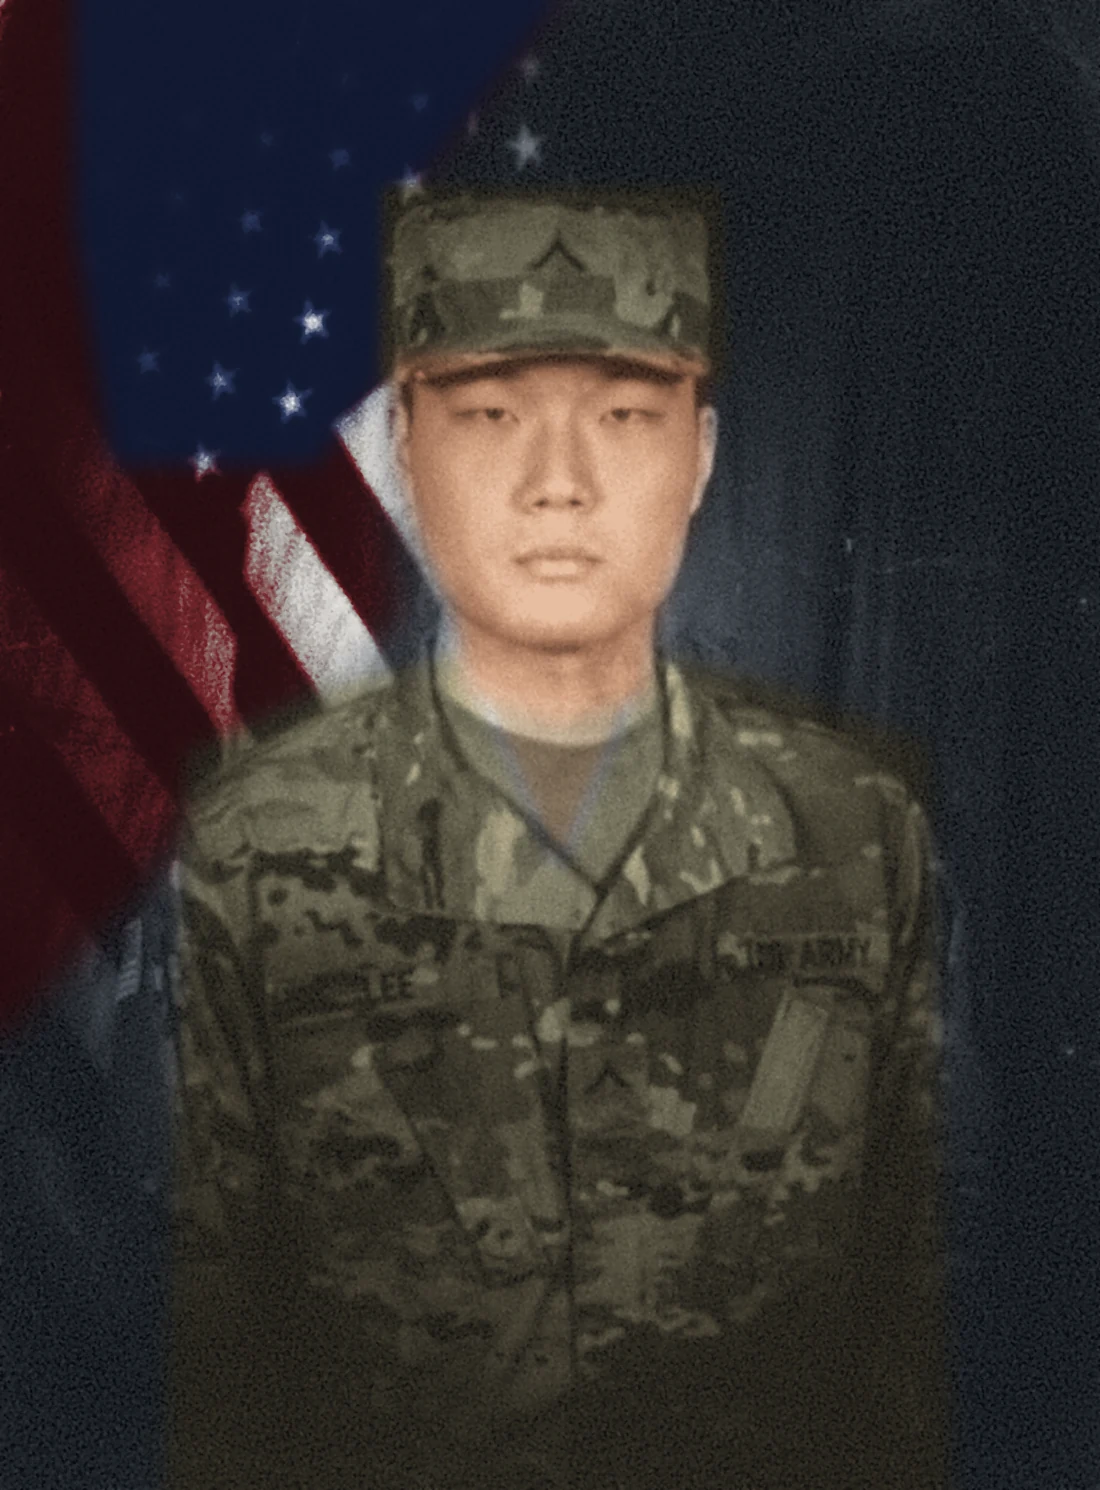
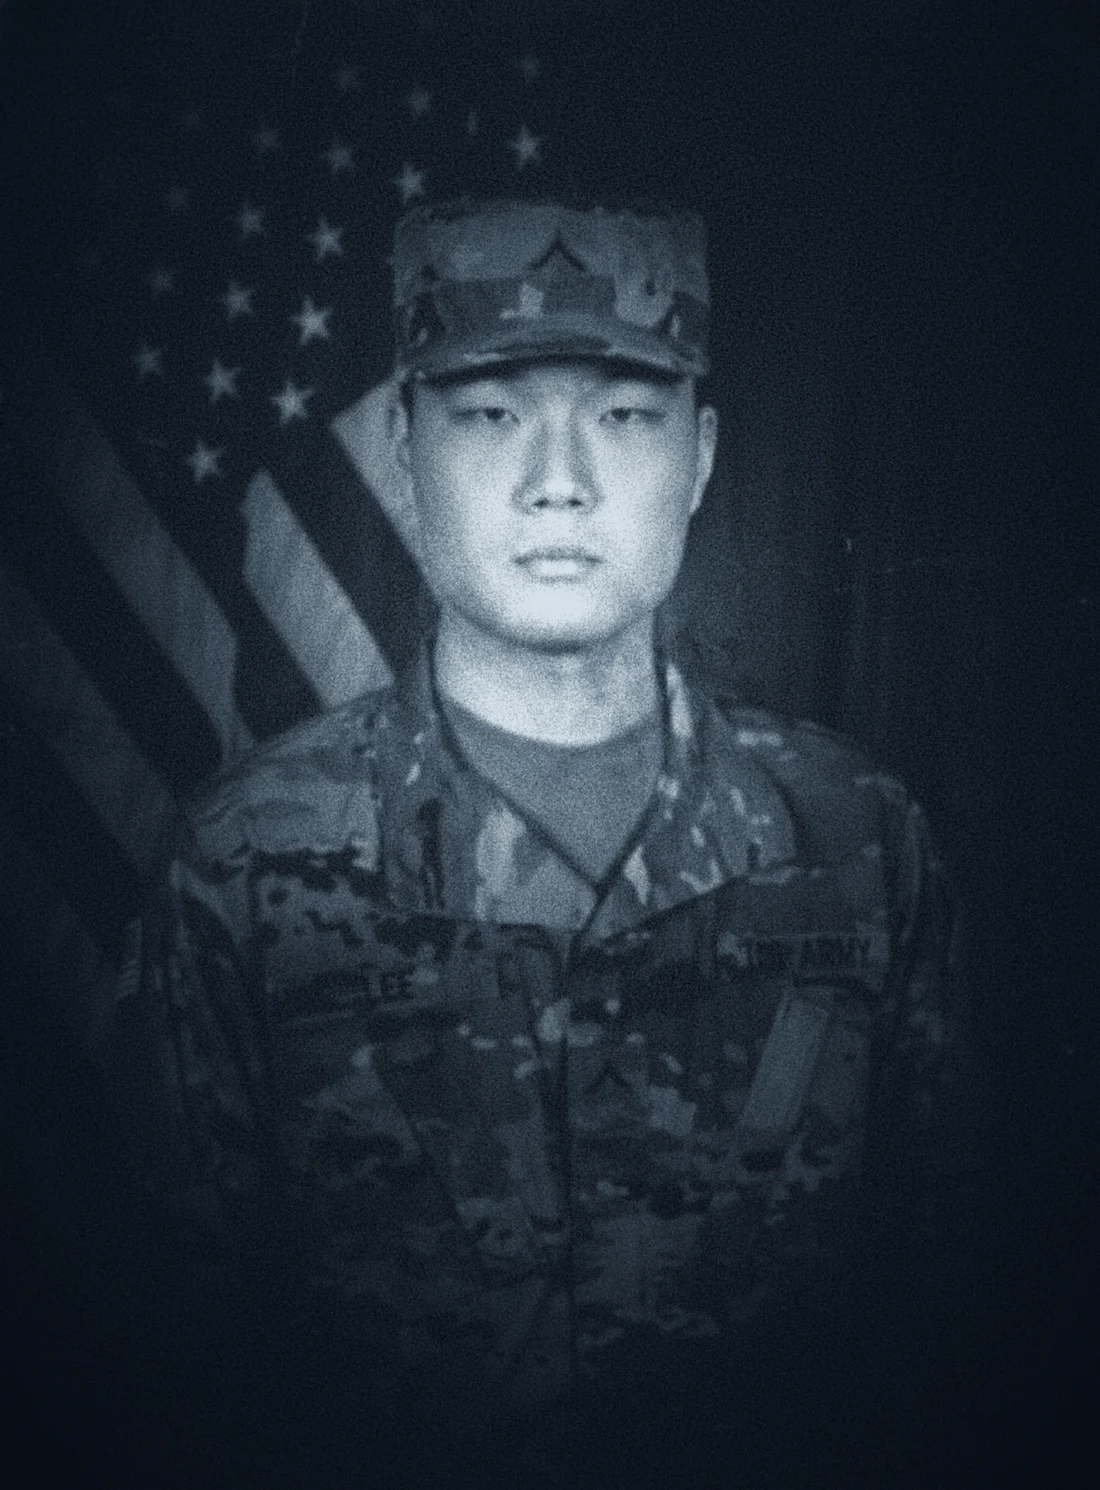
About: return the PV2 portrait to the silver-blue duotone
Claude-Session: https://claude.ai/code/session_01B4wxCsy1ETWEjo4xRhURWq

diff --git a/tools/make_portrait.py b/tools/make_portrait.py
@@ -1,76 +1,41 @@
-"""Tint the black-and-white service portrait (PV2) for the About page.
+"""Tone the service portrait (PV2) for the About page.
 
-The scan is a warm, grainy black-and-white print. This lifts it to a clean, natural photo:
-grain softened, levels opened up, then each area is hand-tinted from its own brightness the
-way old photographs were coloured by hand (skin, Army camouflage, the flag's stripes and
-stars, a dark backdrop). The masks below were placed by eye on the cropped photo.
+Crops to the photo, softens the scan grain, opens up the levels, and maps the result onto the
+site's cool silver-blue duotone (deep blue-black shadows, pale slate highlights) with a soft
+fade at the edges so the print settles into the dark page.
 Usage: python3 tools/make_portrait.py <ServicePortrait_PV2.png>
 """
 import sys
 from pathlib import Path
 import numpy as np
-from PIL import Image, ImageDraw, ImageFilter
+from PIL import Image, ImageFilter
 
 OUT = Path(__file__).resolve().parent.parent / "assets/img/about/portrait.webp"
-src = Image.open(sys.argv[1]).convert("RGB").crop((150, 196, 1925, 2600))
-W, H = src.size
+card = Image.open(sys.argv[1]).convert("RGB").crop((150, 196, 1925, 2600))
 
-# soften the scan grain, keep edges
-g = src.convert("L")
-soft = g.filter(ImageFilter.GaussianBlur(2.2))
-med = g.filter(ImageFilter.MedianFilter(5))
-L = (np.asarray(med, np.float32) * 0.55 + np.asarray(soft, np.float32) * 0.45) / 255
-lo, hi = np.percentile(L, 0.8), np.percentile(L, 99.8)
-L = np.clip((L - lo) / (hi - lo), 0, 1) ** 0.72   # open up the shadows
+L = np.asarray(card.convert("L")).astype(np.float32) / 255
+Lb = np.asarray(Image.fromarray((L * 255).astype(np.uint8)).filter(ImageFilter.GaussianBlur(1.2))).astype(np.float32) / 255
+L = 0.55 * L + 0.45 * Lb
+lo, hi = np.percentile(L, 1.0), np.percentile(L, 99.7)
+L = np.clip((L - lo) / (hi - lo), 0, 1)
+L = L ** 0.82
+L = L * L * (3 - 2 * L) * 0.35 + L * 0.65  # slight S-curve
 
+sh = np.array([7, 13, 21], np.float32)
+mid = np.array([92, 112, 128], np.float32)
+hl = np.array([214, 226, 234], np.float32)
+t = L[..., None]
+rgb = np.where(t < 0.5, sh + (mid - sh) * (t / 0.5), mid + (hl - mid) * ((t - 0.5) / 0.5))
 
-def mask(poly, blur=26):
-    m = Image.new("L", (W, H), 0)
-    ImageDraw.Draw(m).polygon([(x * 3, y * 3) for x, y in poly], fill=255)
-    return np.asarray(m.filter(ImageFilter.GaussianBlur(blur)), np.float32)[..., None] / 255
+h, w = L.shape
+yy, xx = np.mgrid[0:h, 0:w].astype(np.float32)
+d = np.sqrt(((xx - w * 0.5) / (w * 0.62)) ** 2 + ((yy - h * 0.42) / (h * 0.66)) ** 2)
+v = np.clip(1.15 - d, 0, 1) ** 0.9
+rgb = sh + (rgb - sh) * v[..., None]
+rng = np.random.default_rng(5)
+rgb += rng.normal(0, 2.2, rgb.shape[:2])[..., None]
 
-
-def ramp(t, stops):
-    """Map brightness t (0..1) through colour stops [(pos, (r,g,b)), ...]."""
-    t = t[..., None]
-    out = np.zeros(t.shape[:2] + (3,), np.float32)
-    for (p0, c0), (p1, c1) in zip(stops, stops[1:]):
-        c0, c1 = np.array(c0, np.float32), np.array(c1, np.float32)
-        k = np.clip((t - p0) / (p1 - p0), 0, 1)
-        inside = (t >= p0) & (t <= p1)
-        out = np.where(inside, c0 + (c1 - c0) * k, out)
-    return out / 255
-
-
-# areas, in thirds-scale coordinates of the cropped photo (591 x 801 preview)
-flag = mask([(0, 0), (300, 0), (215, 110), (205, 205), (215, 330), (120, 430), (0, 560)])
-canton = mask([(40, 0), (300, 0), (215, 110), (205, 205), (170, 250), (60, 250), (40, 120)], 18)
-skin = mask([(212, 190), (380, 190), (382, 250), (365, 300), (352, 335), (348, 372), (300, 390), (252, 372), (245, 330), (228, 295), (214, 250)], 14)
-shirt = mask([(255, 360), (345, 360), (300, 465)], 12)
-cap = mask([(205, 100), (388, 100), (392, 205), (205, 205)], 10)
-body = mask([(100, 405), (170, 372), (250, 350), (300, 470), (350, 350), (430, 372), (500, 400), (512, 801), (88, 801)], 16)
-ocp = np.clip(cap + body - shirt, 0, 1)
-
-neutral = ramp(L, [(0, (10, 14, 19)), (0.5, (104, 110, 118)), (1, (226, 230, 233))])
-skin_c = ramp(L * 0.92, [(0, (48, 28, 20)), (0.45, (160, 106, 76)), (0.75, (212, 156, 120)), (0.92, (232, 186, 152))])
-ocp_c = ramp(L, [(0, (24, 22, 17)), (0.3, (76, 70, 52)), (0.55, (122, 118, 92)), (0.8, (176, 164, 128)), (1, (214, 204, 172))])
-shirt_c = ramp(L, [(0, (30, 24, 18)), (0.5, (120, 100, 76)), (1, (200, 178, 148))])
-# stripes: dark bands red, light bands white; canton: navy with white stars
-t = np.clip((L - 0.2) / 0.45, 0, 1)
-stripes = ramp(t, [(0, (70, 18, 24)), (0.45, (150, 40, 46)), (0.75, (196, 188, 182)), (1, (232, 228, 222))]) * (0.55 + 0.6 * L[..., None])
-stars = ramp(np.clip((L - 0.25) / 0.5, 0, 1), [(0, (16, 24, 52)), (0.5, (36, 50, 92)), (1, (232, 232, 236))])
-
-c = neutral
-c = c * (1 - flag) + stripes * flag
-c = c * (1 - canton) + stars * canton
-c = c * (1 - ocp) + ocp_c * ocp
-c = c * (1 - shirt) + shirt_c * shirt
-c = c * (1 - skin) + skin_c * skin
-# keep the tint gentle, like a hand-coloured print: blend a little of the neutral back in
-c = c * 0.88 + neutral * 0.12
-
-img = Image.fromarray(np.clip(c * 255, 0, 255).astype(np.uint8))
-img = img.filter(ImageFilter.UnsharpMask(radius=2, percent=40, threshold=2))
-img = img.resize((1100, round(1100 * H / W)), Image.LANCZOS)
-img.save(OUT, quality=88, method=6)
-print(OUT, img.size)
+out = Image.fromarray(np.clip(rgb, 0, 255).astype(np.uint8))
+out = out.resize((1100, round(1100 * h / w)), Image.LANCZOS)
+out.save(OUT, quality=88, method=6)
+print(OUT, out.size)
